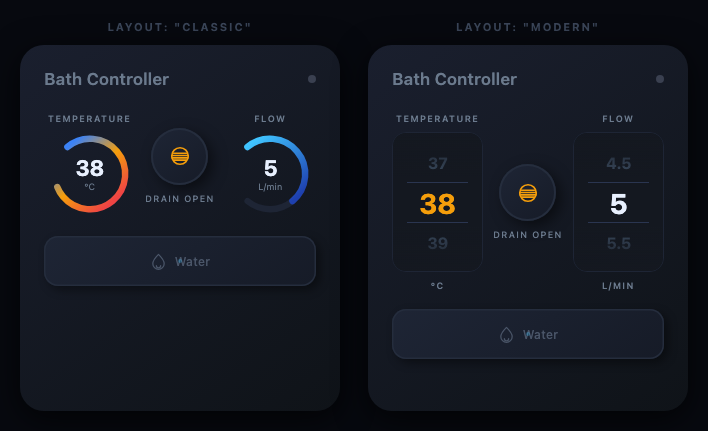
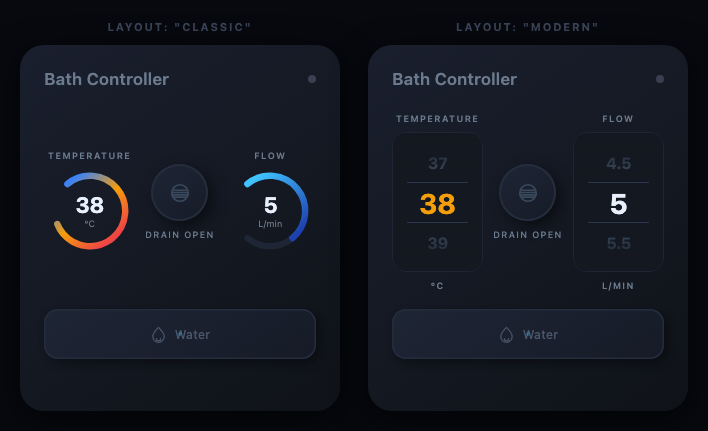
feat: v0.5.4 – drain dark=open/blue=closed, classic vert-center, GitHub Pages demo

diff --git a/demo-picker.html b/demo-picker.html
@@ -87,7 +87,8 @@
       align-items: center;
       justify-content: space-between;
       gap: 10px;
-      margin-bottom: 18px;
+      flex: 1;           /* stretch to fill card – pushes bottom-row down */
+      min-height: 0;
     }
 
     /* ══ CLASSIC dials ══ */
@@ -152,15 +153,18 @@
       box-shadow: 5px 5px 14px rgba(0,0,0,0.5), inset 0 0 0 2px #252d3d;
       cursor: pointer; display: flex; align-items: center; justify-content: center;
       transition: transform 0.15s ease, color 0.25s ease;
-      color: #f59e0b;   /* open = orange */
+      color: #3a4a5e;   /* open (default) = dark, no accent */
     }
-    .drain-round-btn.closed { color: #3a4a5e; }  /* closed = dark neutral */
+    .drain-round-btn.closed {
+      color: #40c4ff;  /* closed = blue alert, same as water running */
+      box-shadow: 5px 5px 14px rgba(0,0,0,0.5), inset 0 0 0 2px #1a6fa0, 0 0 12px rgba(64,196,255,0.2);
+    }
     .drain-round-btn:active { transform: scale(0.92); }
     .drain-round-btn svg { width: 22px; height: 22px; }
     .drain-round-label { font-size: 9px; font-weight: 500; text-transform: uppercase; letter-spacing: 1.2px; color: #6b7a8d; }
 
     /* ══ Water wide button (bottom) ══ */
-    .bottom-row { display: flex; gap: 10px; }
+    .bottom-row { display: flex; gap: 10px; margin-top: 18px; flex-shrink: 0; }
     .water-wide-btn {
       flex: 1; height: 50px; border-radius: 14px; border: none;
       background: linear-gradient(145deg, #1e2535, #161b27);

diff --git a/oblamatik-card.js b/oblamatik-card.js
@@ -203,11 +203,14 @@ class OblamatikCard extends HTMLElement {
         background: linear-gradient(145deg, #1e2535, #161b27);
         box-shadow: 5px 5px 14px rgba(0,0,0,0.5), inset 0 0 0 2px #252d3d;
         cursor: pointer; display: flex; align-items: center; justify-content: center;
-        transition: transform 0.15s ease, color 0.25s ease;
-        color: #f59e0b;   /* open = orange */
+        transition: transform 0.15s ease, color 0.25s ease, box-shadow 0.25s ease;
+        color: #3a4a5e;   /* open (default) = dark, no accent */
       }
       .drain-round-btn:active { transform: scale(0.92); }
-      .drain-round-btn.closed { color: #3a4a5e; }   /* closed = dark neutral */
+      .drain-round-btn.closed {
+        color: #40c4ff;   /* closed = blue alert, same as water running */
+        box-shadow: 5px 5px 14px rgba(0,0,0,0.5), inset 0 0 0 2px #1a6fa0, 0 0 12px rgba(64,196,255,0.2);
+      }
       .drain-round-btn svg { width: clamp(18px, 5.3cqw, 24px); height: clamp(18px, 5.3cqw, 24px); }
       .drain-round-label { font-size: 9px; font-weight: 500; text-transform: uppercase; letter-spacing: 1.2px; color: #6b7a8d; }
 

diff --git a/README.md b/README.md
@@ -28,9 +28,14 @@ A modern, minimalist **Lovelace custom card** for Home Assistant to control **Ob
 
 ## How it works?
 
-Try the **interactive simulator** in your browser – no Home Assistant required:
+<p align="center">
+  <a href="https://bobsilesia.github.io/UiMatic/demo-picker.html">
+    <img src="https://img.shields.io/badge/▶%20Live%20Demo-Open%20interactive%20simulator-40c4ff?style=for-the-badge&logo=html5&logoColor=white" alt="Live Demo"/>
+  </a>
+</p>
 
-👉 **[Open simulator (demo-picker.html)](https://raw.githack.com/bobsilesia/UiMatic/main/demo-picker.html)**
+**Interactive simulator** – runs directly in the browser, no Home Assistant required:  
+🔗 **[https://bobsilesia.github.io/UiMatic/demo-picker.html](https://bobsilesia.github.io/UiMatic/demo-picker.html)**
 
 The simulator shows both layouts side-by-side with fully working controls:
 
@@ -40,6 +45,10 @@ The simulator shows both layouts side-by-side with fully working controls:
 | ▬ Wide button (bottom) | **Water** ON / OFF with ripple animation |
 | Arc dials *(classic)* | Drag to set temperature & flow |
 | Drum pickers *(modern)* | Swipe up/down to scroll values |
+
+**Drain color logic:**
+- ⚫ Dark (no accent) = drain is **open** — safe, no alert needed
+- 🔵 Blue = drain is **closed** — alert! water may flood if turned on
 
 > **Safety note:** The drain is **open by default**. This prevents bathroom flooding if water is accidentally turned on before closing the drain.
 
